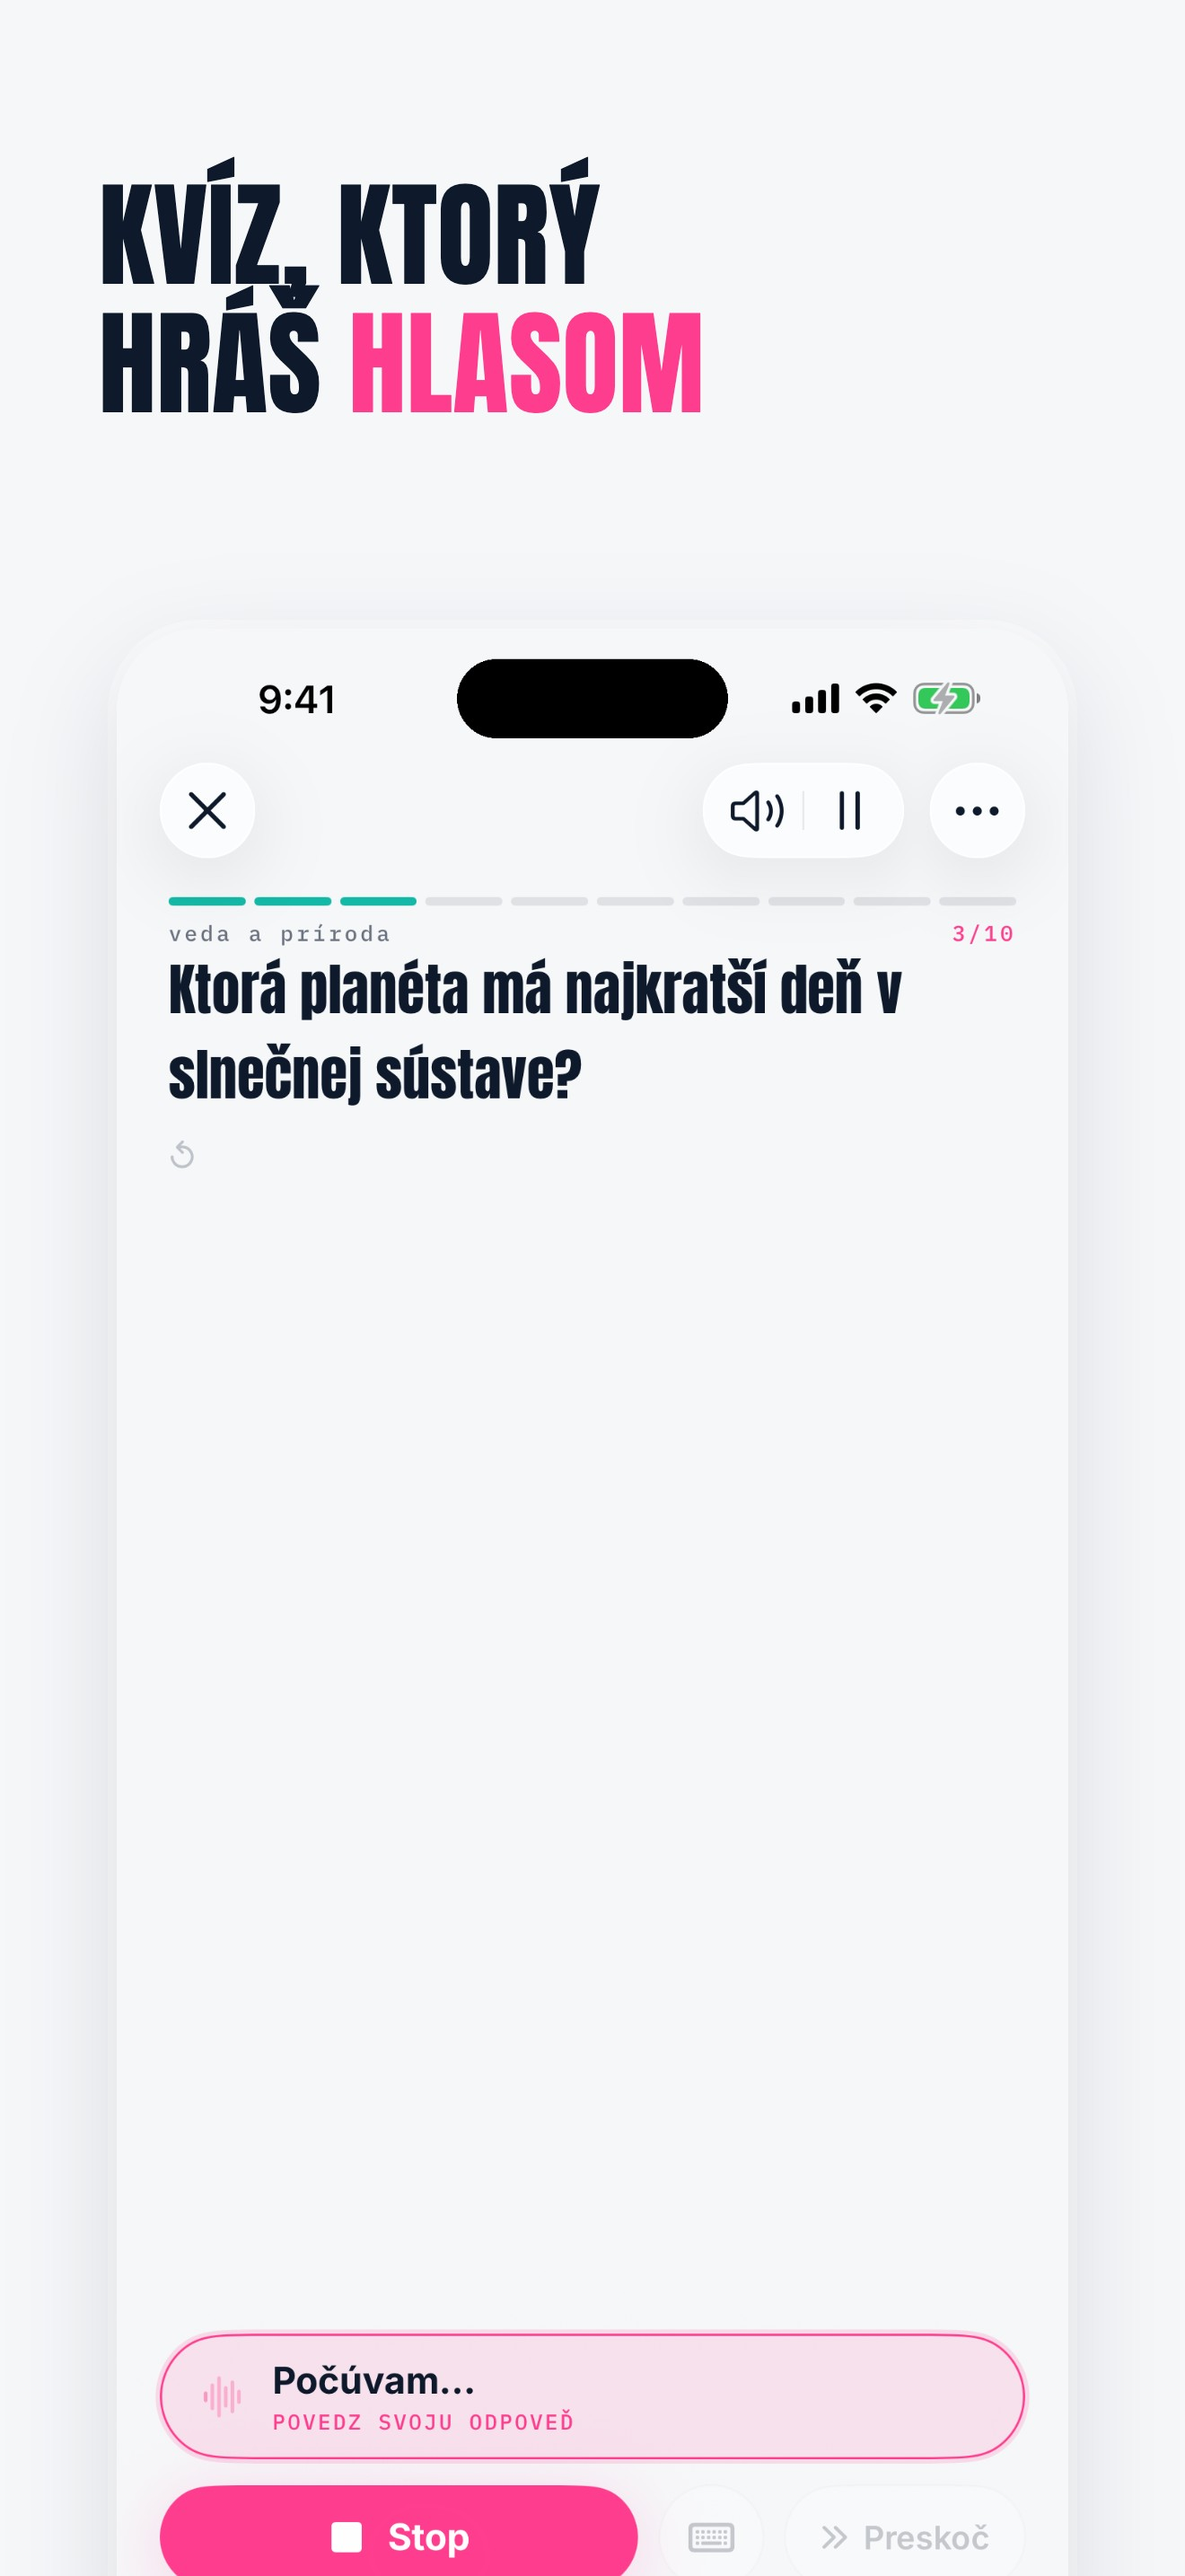
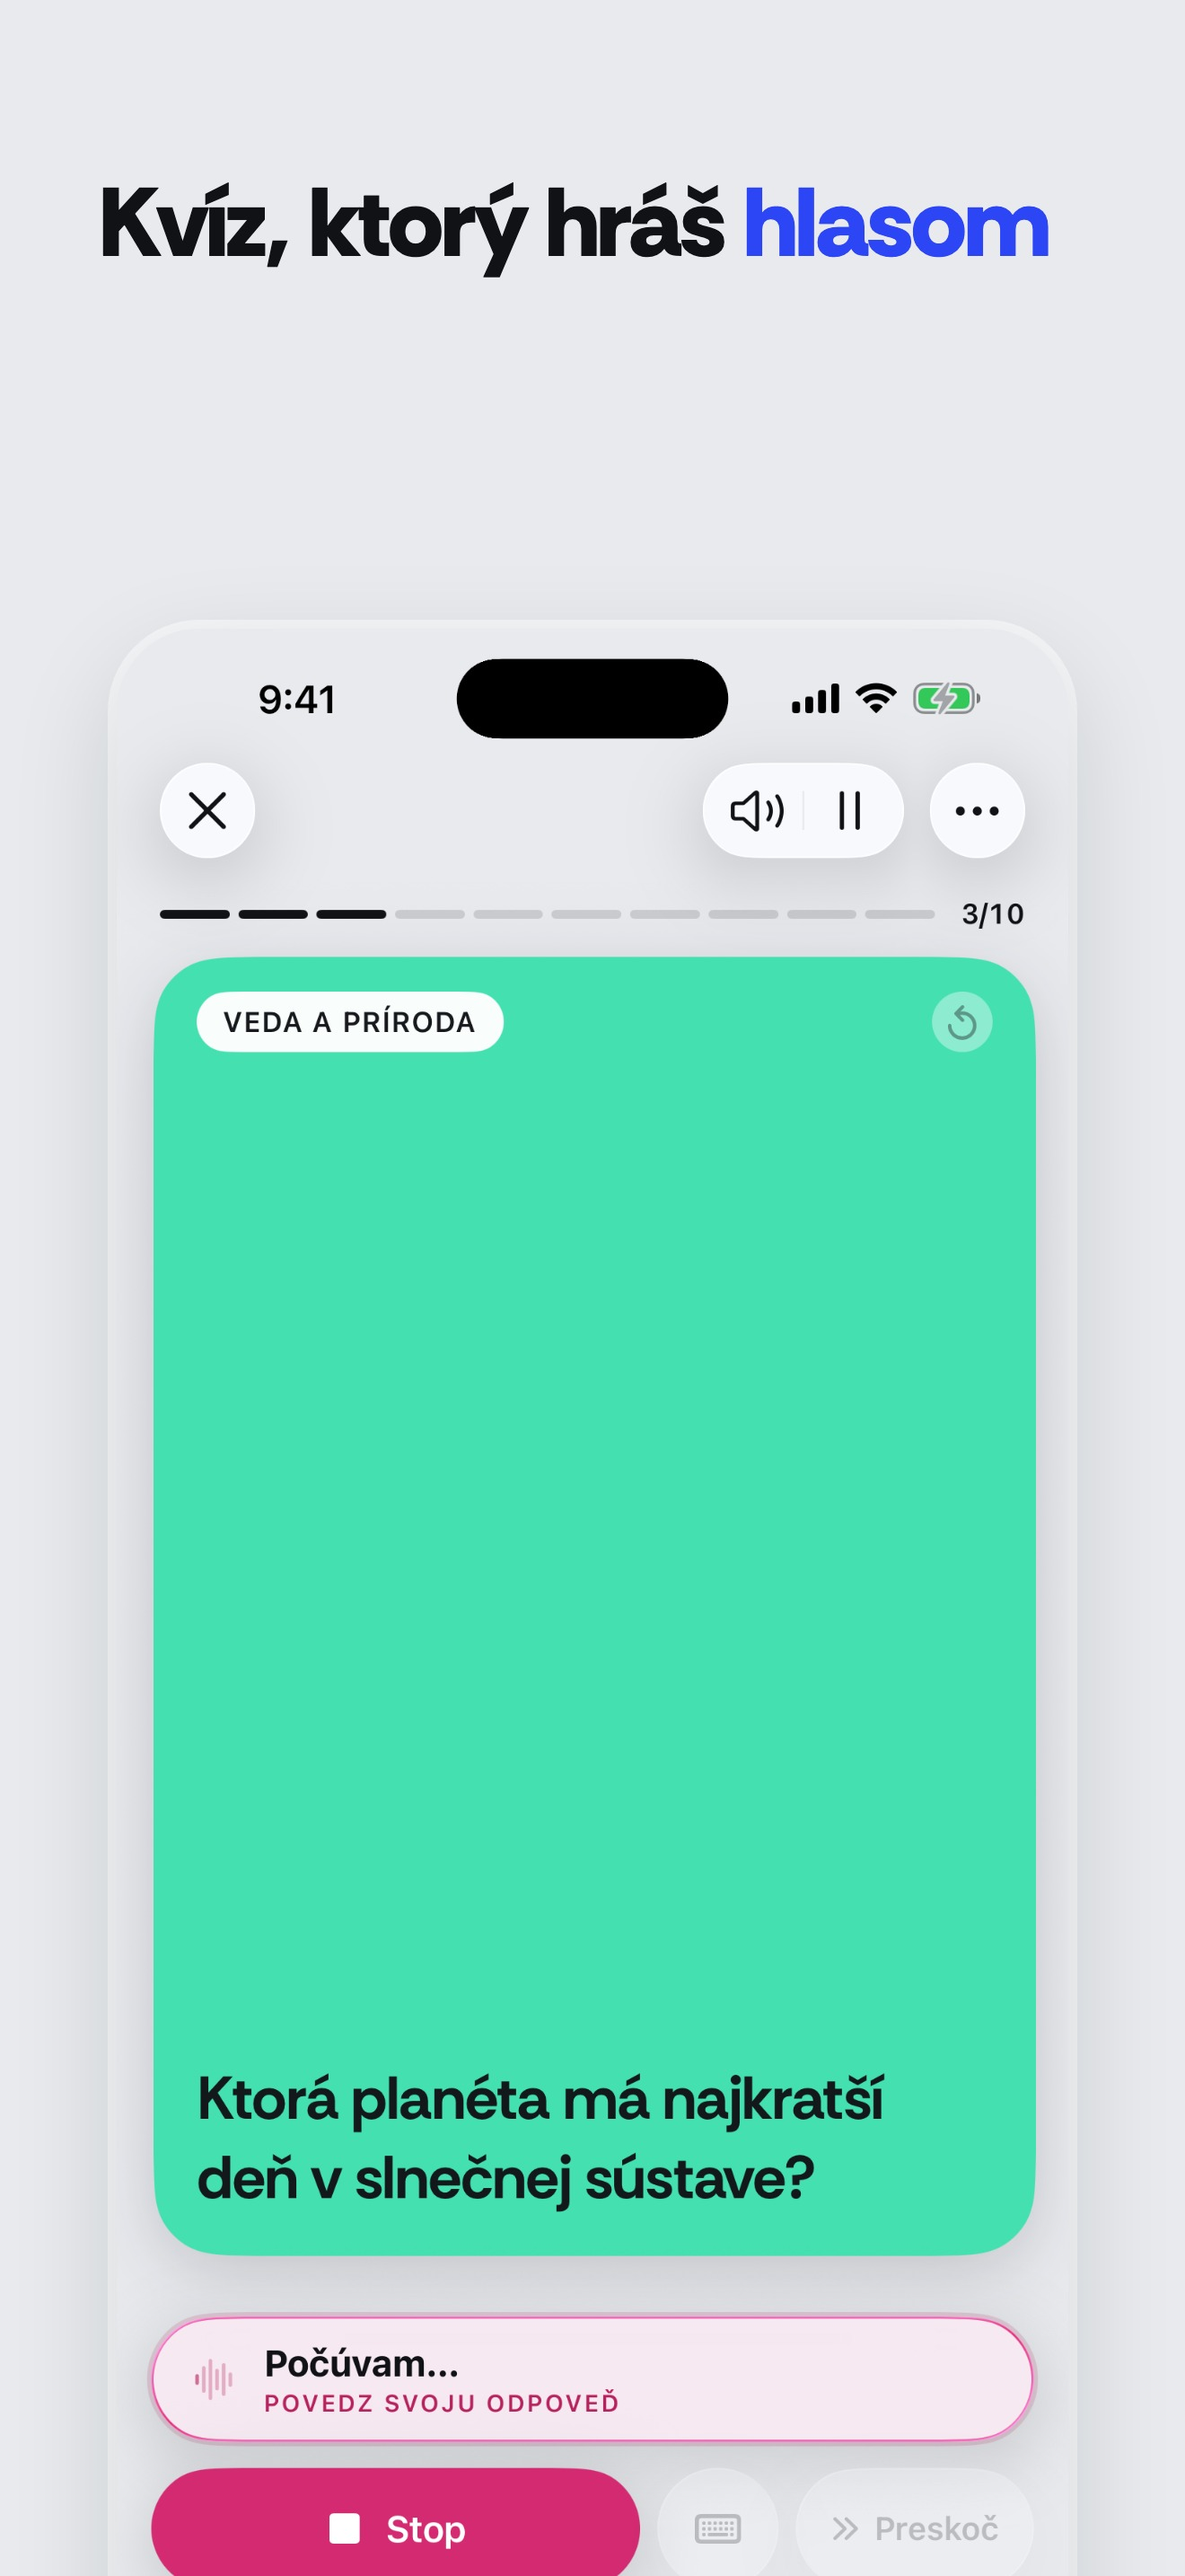
docs(ios): App Store screenshots show the redesign
Recaptured all 18 store screenshots (en/sk/cs, 6 scenes) from main on
iPhone 17 Pro Max (iOS 26.5), light mode, store-screenshot fixture mode.
Composer variant a now uses the redesign palette (grey page, ink caption,
cobalt accent) and Rethink Sans; renders with Playwright's headless
Chromium instead of the desktop Chrome. Captions unchanged.

diff --git a/scripts/store_screenshots/render.py b/scripts/store_screenshots/render.py
@@ -11,6 +11,7 @@ from __future__ import annotations
 import argparse
 import html
 import json
+import os
 import re
 import subprocess
 import tempfile
@@ -20,46 +21,65 @@ from PIL import Image
 
 ROOT = Path(__file__).resolve().parents[2]
 FONTS = ROOT / "apps/ios-app/Hangs/Hangs/Fonts"
-CHROME = "/Applications/Google Chrome.app/Contents/MacOS/Google Chrome"
 W, H = 1320, 2868
 
-# Brand values mirror Palette in apps/ios-app/Hangs/Hangs/Utilities/Theme.swift.
+# Never the everyday desktop Chrome: render with Playwright's bundled headless Chromium
+# (`uvx playwright install chromium-headless-shell`), or point CHROME_BIN at Chrome for Testing.
+PLAYWRIGHT_CACHE = Path.home() / "Library/Caches/ms-playwright"
+
+
+def chrome_bin() -> str:
+    if os.environ.get("CHROME_BIN"):
+        return os.environ["CHROME_BIN"]
+    shells = sorted(
+        PLAYWRIGHT_CACHE.glob("chromium_headless_shell-*/chrome-headless-shell-*/chrome-headless-shell"),
+        key=lambda p: int(p.parts[-3].rsplit("-", 1)[1]),
+    )
+    if not shells:
+        raise SystemExit("No headless Chromium: run `uvx playwright install chromium-headless-shell` or set CHROME_BIN")
+    return str(shells[-1])
+
+
+# Brand values mirror Palette in apps/ios-app/Hangs/Hangs/Utilities/Theme.swift (#194 redesign,
+# #198 colours): grey page, ink type, cobalt as the one accent; captions in Rethink Sans, the
+# app's content font. Variants b and c predate the redesign; only their font changed.
+REDESIGN = {"bg": "#E8EAEE", "ink": "#111216", "accent": "#2C45F5", "upper": False, "size": 108, "shot": "light", "glow": "rgba(17,18,22,.14)"}
 VARIANTS = {
-    # a: light studio, condensed display caption, app in light mode
-    "a": {"bg": "#F6F7F9", "ink": "#0E1A2B", "accent": "#FF3D8F", "font": "Anton", "upper": True, "size": 128, "shot": "light", "glow": "rgba(14,26,43,.14)"},
-    # b: brand pink field, white caption, app in light mode
-    "b": {"bg": "#FF3D8F", "ink": "#FFFFFF", "accent": "#0E1A2B", "font": "Anton", "upper": True, "size": 128, "shot": "light", "glow": "rgba(120,0,50,.35)"},
-    # c: night, sentence-case Inter caption, app in dark mode
-    "c": {"bg": "#161616", "ink": "#F4F4F4", "accent": "#FF3D8F", "font": "Inter", "upper": False, "size": 112, "shot": "dark", "glow": "rgba(255,61,143,.22)"},
+    # a: the store set. Grey page, ink caption with cobalt accent words, app in light mode
+    "a": REDESIGN,
+    # b: brand pink field, white caption, app in light mode (pre-redesign)
+    "b": {"bg": "#FF3D8F", "ink": "#FFFFFF", "accent": "#0E1A2B", "upper": True, "size": 128, "shot": "light", "glow": "rgba(120,0,50,.35)"},
+    # c: night, app in dark mode (pre-redesign)
+    "c": {"bg": "#161616", "ink": "#F4F4F4", "accent": "#FF3D8F", "upper": False, "size": 112, "shot": "dark", "glow": "rgba(255,61,143,.22)"},
     # p: variant a plus a lifestyle photo behind the caption on scenes listed under "photos" in captions.json
-    "p": {"bg": "#F6F7F9", "ink": "#0E1A2B", "accent": "#FF3D8F", "font": "Anton", "upper": True, "size": 128, "shot": "light", "glow": "rgba(14,26,43,.14)"},
+    "p": REDESIGN,
 }
 
 
 def caption_html(text: str) -> str:
+    # sk/cs typography: a one-letter word (s, a, v, k) never ends a line
+    text = re.sub(r"(?<!\S)(\w) ", "\\1\u00a0", text)
     parts = re.split(r"\*(.+?)\*", html.escape(text))
     return "".join(f'<em>{p}</em>' if i % 2 else p for i, p in enumerate(parts))
 
 
 def page(v: dict, caption: str, shot: Path, photo: Path | None = None) -> str:
-    weight = 400 if v["font"] == "Anton" else 700
     if photo:  # photo fills the upper part and fades into the background; caption turns white on it
-        v = {**v, "ink": "#FFFFFF", "accent": "#FF7AB3"}
+        v = {**v, "ink": "#FFFFFF", "accent": "#8C9BFF"}
         extra = f"""
 .photo {{ position: absolute; inset: 0 0 auto 0; height: 1900px; background: url('{photo.as_uri()}') center 35% / cover; }}
 .photo::after {{ content: ""; position: absolute; inset: 0;
-  background: linear-gradient(180deg, rgba(14,26,43,.62) 0%, rgba(14,26,43,.18) 34%, rgba(14,26,43,0) 55%, {v["bg"]} 100%); }}
+  background: linear-gradient(180deg, rgba(17,18,22,.62) 0%, rgba(17,18,22,.18) 34%, rgba(17,18,22,0) 55%, {v["bg"]} 100%); }}
 .cap {{ text-shadow: 0 4px 30px rgba(0,0,0,.35); }}
 .shot {{ top: 900px !important; width: 960px !important; }}"""
         layer = '<div class="photo"></div>'
     else:
         extra, layer = "", ""
     return f"""<!doctype html><html><head><meta charset="utf-8"><style>
-@font-face {{ font-family: Anton; src: url('{(FONTS / "Anton-Regular.ttf").as_uri()}'); }}
-@font-face {{ font-family: Inter; font-weight: 700; src: url('{(FONTS / "Inter-Bold.ttf").as_uri()}'); }}
+@font-face {{ font-family: "Rethink Sans"; font-weight: 800; src: url('{(FONTS / "RethinkSans-ExtraBold.ttf").as_uri()}'); }}
 html, body {{ margin: 0; width: {W}px; height: {H}px; overflow: hidden; background: {v["bg"]}; }}
 .cap {{ position: absolute; left: 110px; right: 110px; top: 190px; color: {v["ink"]};
-  font: {weight} {v["size"]}px/1.12 {v["font"]}, sans-serif; letter-spacing: {"0.5px" if v["upper"] else "-2px"};
+  font: 800 {v["size"]}px/1.08 "Rethink Sans", sans-serif; letter-spacing: {"0.5px" if v["upper"] else "-1px"};
   text-transform: {"uppercase" if v["upper"] else "none"}; text-wrap: balance; }}
 .cap em {{ font-style: normal; color: {v["accent"]}; }}
 .shot {{ position: absolute; left: 50%; top: 700px; width: 1060px; transform: translateX(-50%);
@@ -88,7 +108,7 @@ def render(doc: str, out: Path) -> None:
         src = Path(tmp) / "frame.html"
         src.write_text(doc)
         png = Path(tmp) / "frame.png"
-        subprocess.run([CHROME, "--headless=new", "--hide-scrollbars", "--force-device-scale-factor=1",
+        subprocess.run([chrome_bin(), "--hide-scrollbars", "--force-device-scale-factor=1",
                         "--allow-file-access-from-files", f"--window-size={W},{H}", f"--screenshot={png}", src.as_uri()],
                        check=True, capture_output=True)
         Image.open(png).convert("RGB").crop((0, 0, W, H)).save(out)
